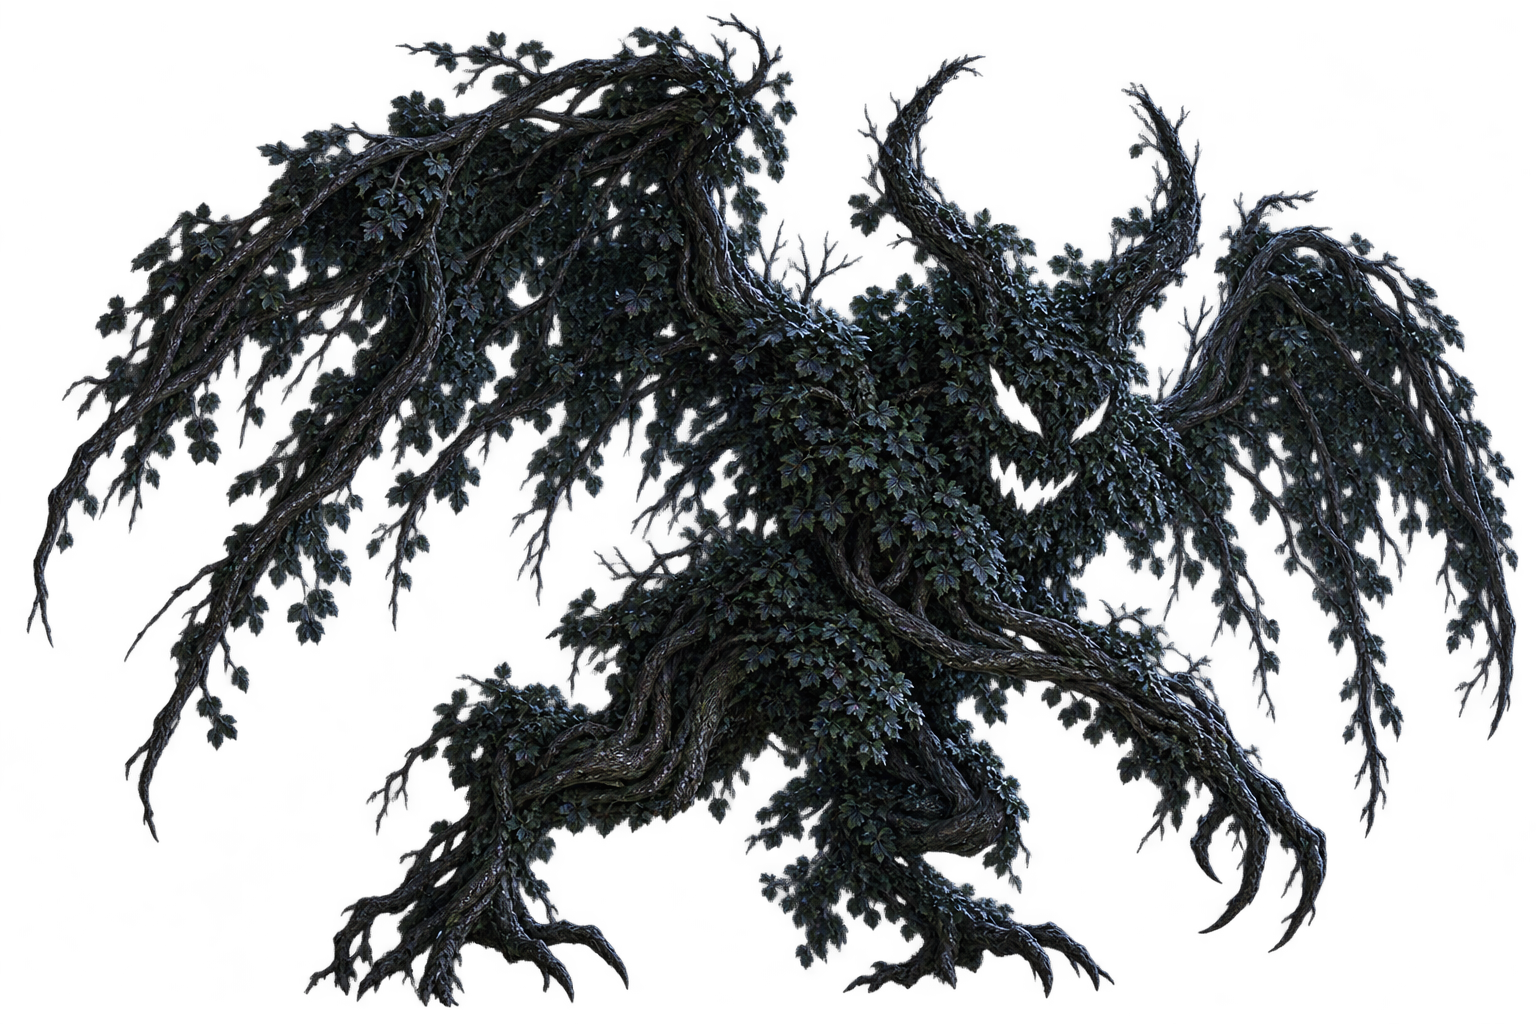
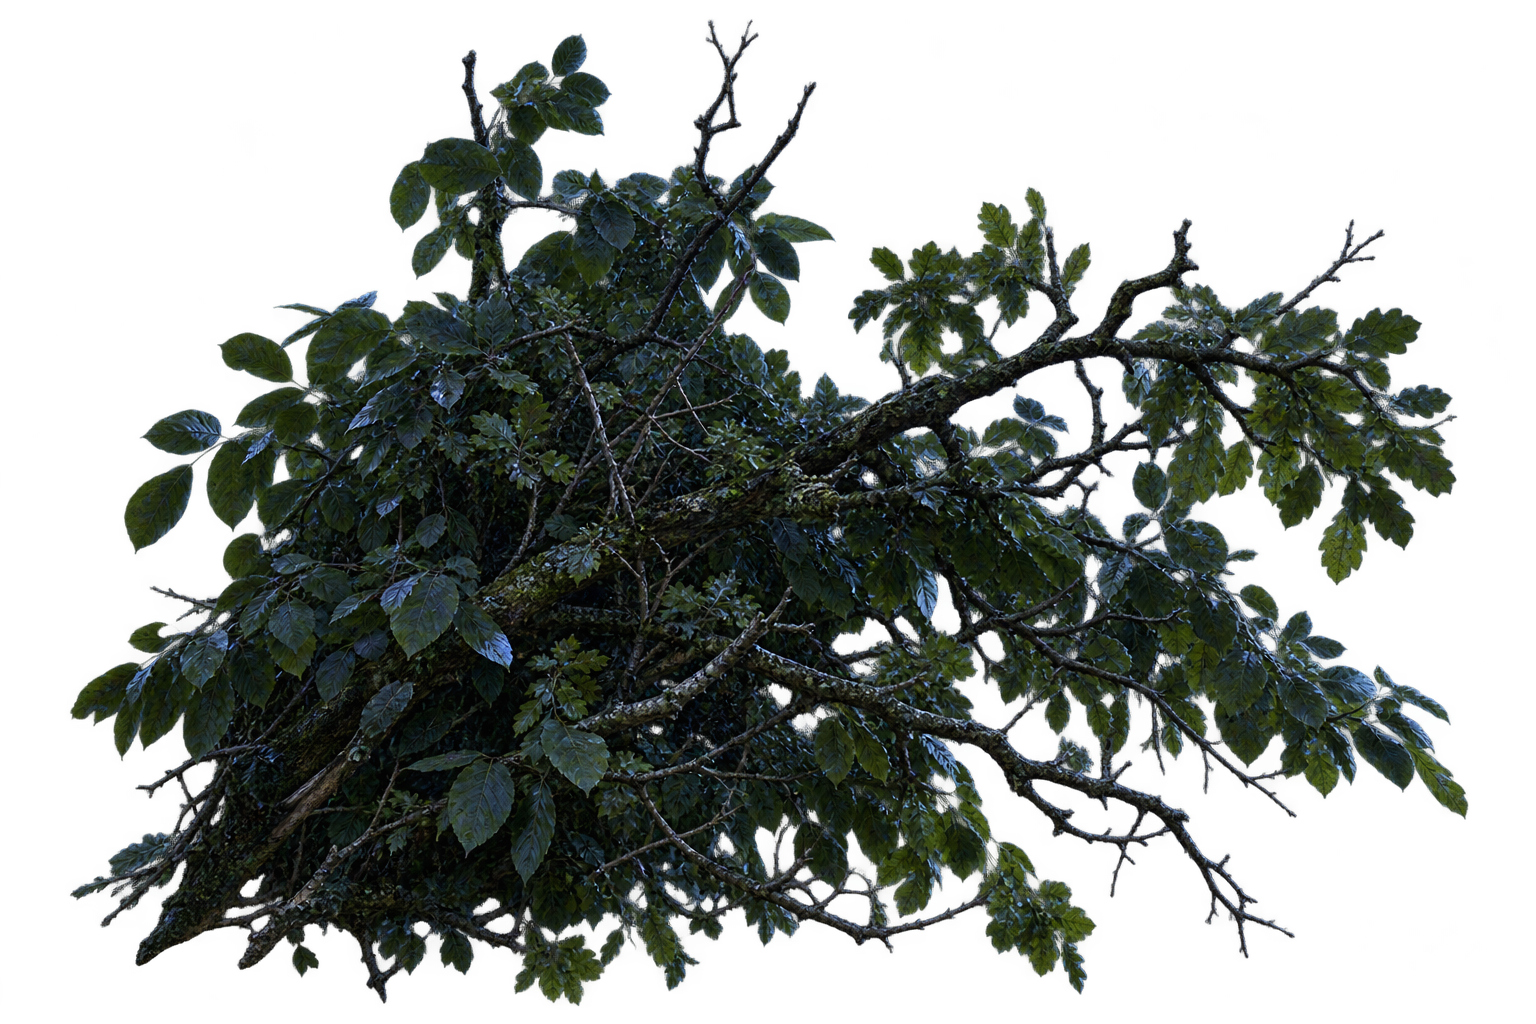
敵素材: 夜の葉・枝を v3（顔なし・非対称の自然な塊）へ再生成

diff --git a/docs/monsters.md b/docs/monsters.md
@@ -77,7 +77,7 @@
 | M106 | 大音量のバイク | 交通と騒音 | 未定 | 未定 | 未定 | 未定 | 仕様のみ（運転者は描かない） | 同上 |
 | M107 | 大型立体看板のお神輿型 | 都市の巨大物 | 香林坊 | 未定 | 未定 | 中ボス | 仕様のみ | 同上 |
 | M108 | 蓋の開いたマンホール | 暗い開口部 | 未定 | 未定 | 未定 | 未定 | 仕様のみ | 同上 |
-| M109 | 夜の森の葉・枝（悪魔に見える） | 錯視 | 夜の森（章は未定） | 未定 | 未定 | 未定 | 生成済み: assets/enemies/night-branches.png（悪魔のシルエットが読める版へ再生成済み・採否待ち） | #12 |
+| M109 | 夜の森の葉・枝（悪魔に見える） | 錯視 | 夜の森（章は未定） | 未定 | 未定 | 未定 | 生成済み: assets/enemies/night-branches.png（v3: 顔なし・非対称の自然な枝葉、悪魔の影は偶然程度。採否待ち） | #12 |
 | M110 | 顔に見える壁の染み | 錯視 | 未定 | 未定 | 未定 | 未定 | 生成済み: assets/enemies/wall-stain.png（採否待ち） | #12 |
 | M111 | 防火シャッター | 展示物・玩具（環境敵） | 香林坊の閉店後の商店街 | 未定 | 未定 | 環境敵（背景と連動して戦場を狭める画面ギミック） | 仕様のみ（スプライトを持たない） | #12 |
 | M112 | マネキン | 展示物・玩具 | 香林坊のショーウィンドウ | 未定 | 未定 | 未定 | 仕様のみ | #12 |
